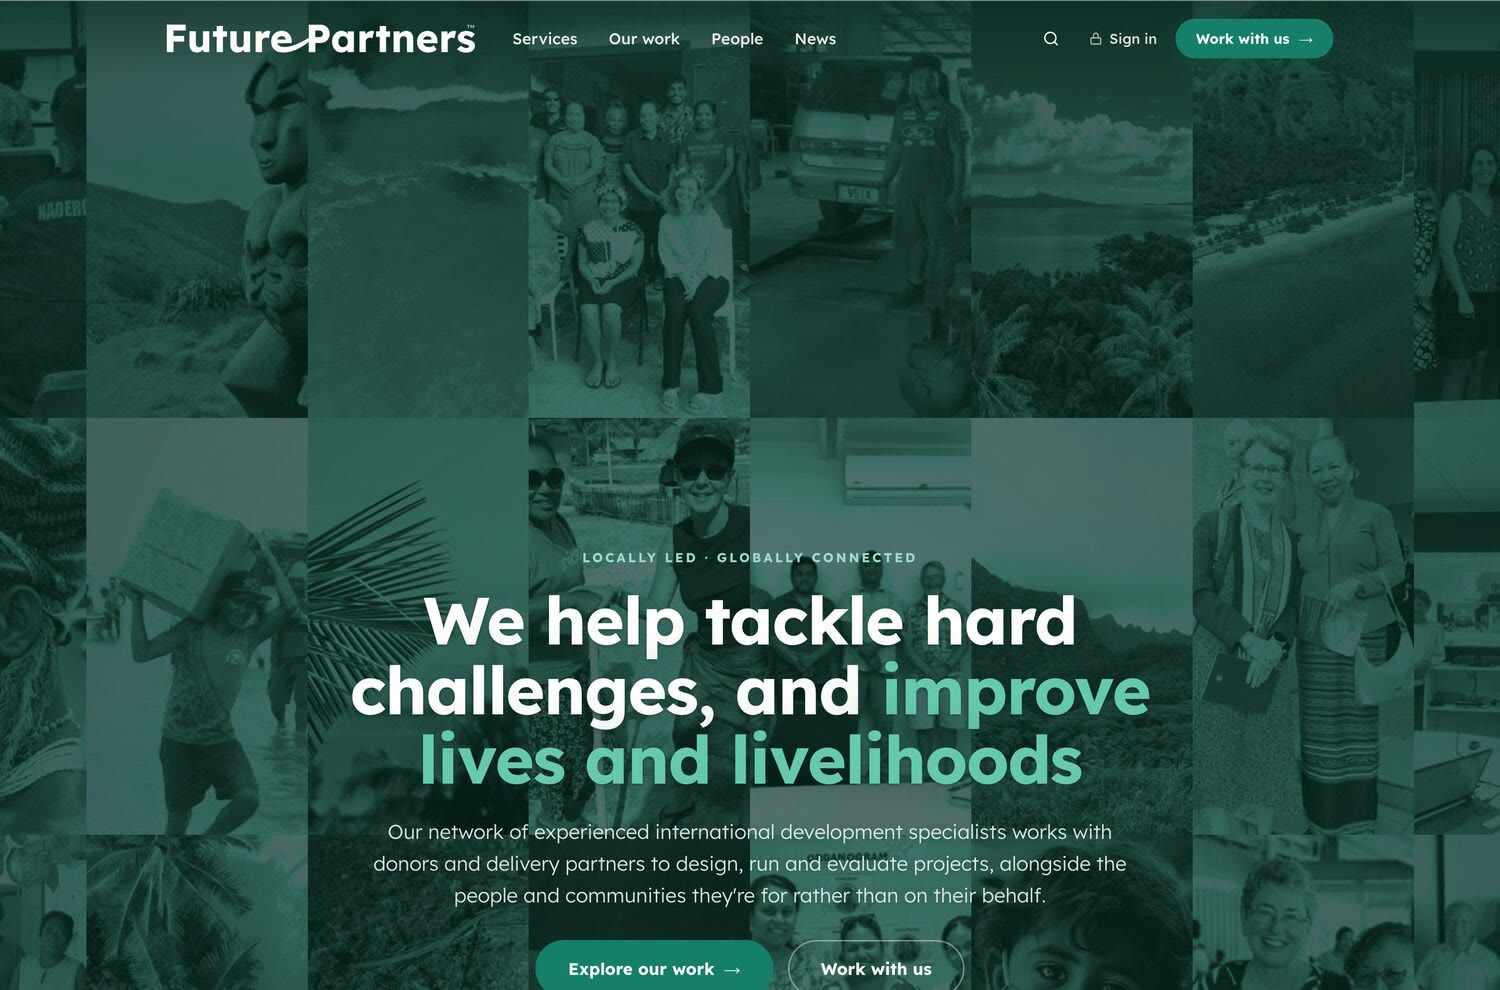
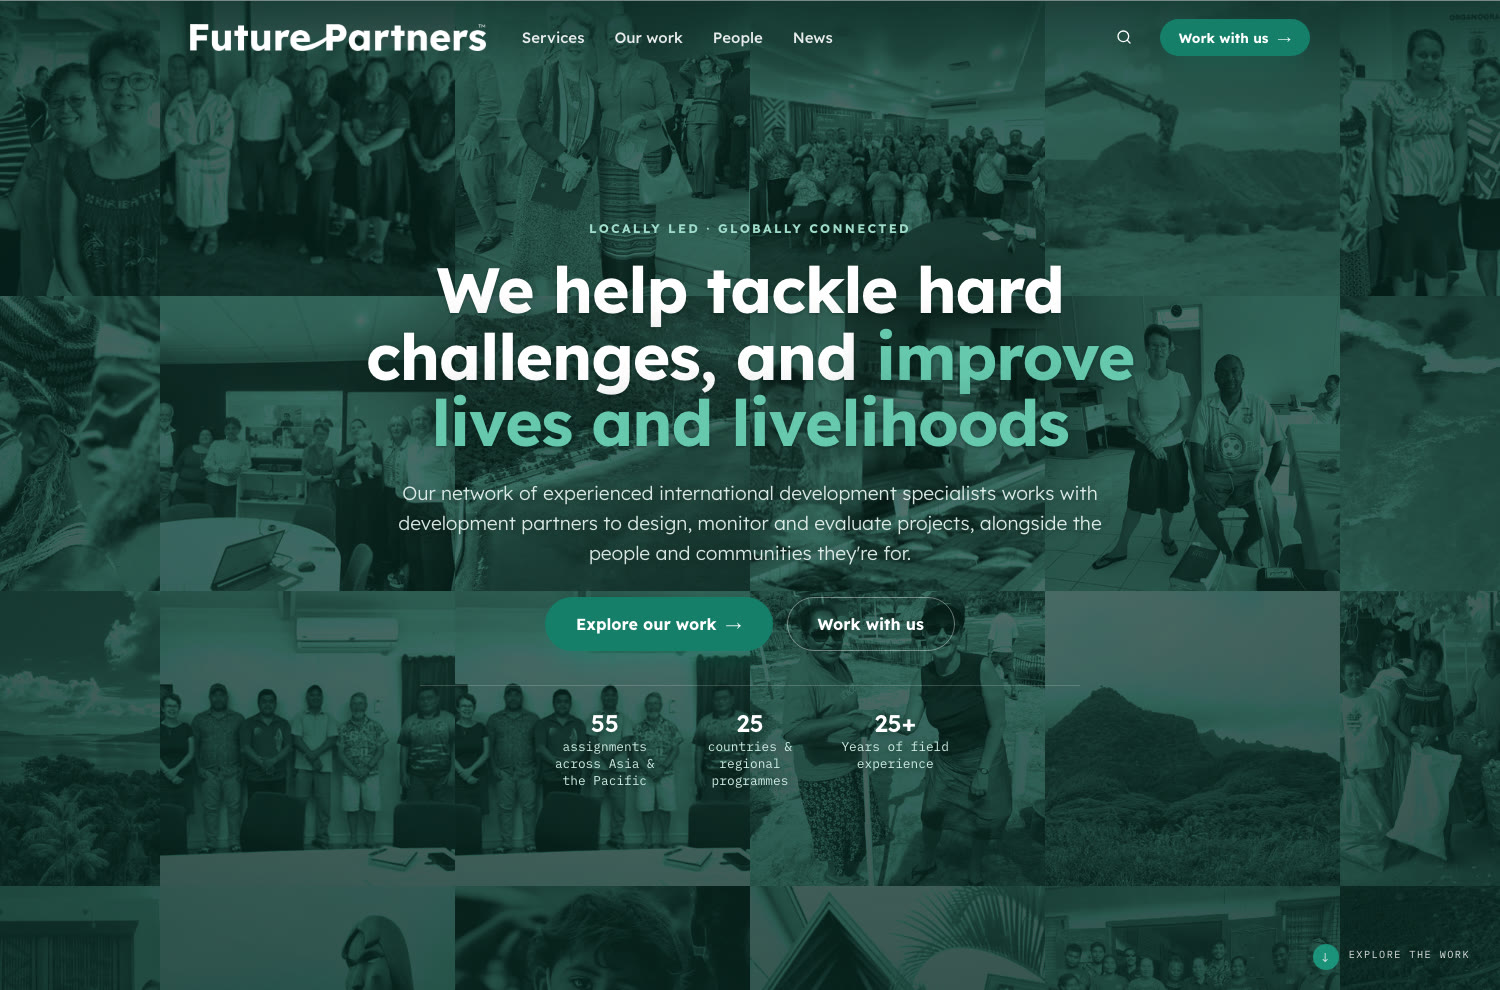
media(futurepartners): live homepage capture as card + case pair image
Fresh headless capture of the live homepage replaces the handbook-era
shot everywhere: the work-grid card and og:image now show the settled
hero mosaic with the headline whole and the stat row beneath, and the
case page's 'Home, after' pair uses the same capture. Alt text updated
to match.

diff --git a/index.html b/index.html
@@ -312,7 +312,7 @@
           </div>
         </a>
         <a class="work-card" href="case-futurepartners.html" data-cursor="CASE">
-          <figure class="wc-media"><picture><source type="image/webp" srcset="assets/img/work-futurepartners.webp"><img src="assets/img/work-futurepartners.jpg" alt="The Future Partners atlas: a Pacific map glowing with project pins" width="1600" height="1000" loading="lazy" decoding="async"></picture></figure>
+          <figure class="wc-media"><picture><source type="image/webp" srcset="assets/img/work-futurepartners.webp"><img src="assets/img/work-futurepartners.jpg" alt="The Future Partners homepage: a mosaic of field photographs behind the headline, with the network's numbers beneath" width="1600" height="1000" loading="lazy" decoding="async"></picture></figure>
           <div class="wc-meta">
             <h3>Future Partners</h3>
             <p class="wc-desc">A 105-page rebuild around an atlas of Pacific work.</p>

diff --git a/case-futurepartners.html b/case-futurepartners.html
@@ -147,7 +147,7 @@
           <figcaption>Home, before</figcaption>
         </figure>
         <figure>
-          <picture><source type="image/webp" srcset="assets/img/fp-shot-home.webp"><img src="assets/img/fp-shot-home.jpg" alt="The new homepage: clean type, a mosaic of faces, clear services" width="1500" height="990" loading="lazy" decoding="async"></picture>
+          <picture><source type="image/webp" srcset="assets/img/fp-shot-home.webp"><img src="assets/img/fp-shot-home.jpg" alt="The new homepage: a mosaic of field photographs behind the headline, stats beneath" width="1500" height="990" loading="lazy" decoding="async"></picture>
           <figcaption>Home, after</figcaption>
         </figure>
         <figure>
